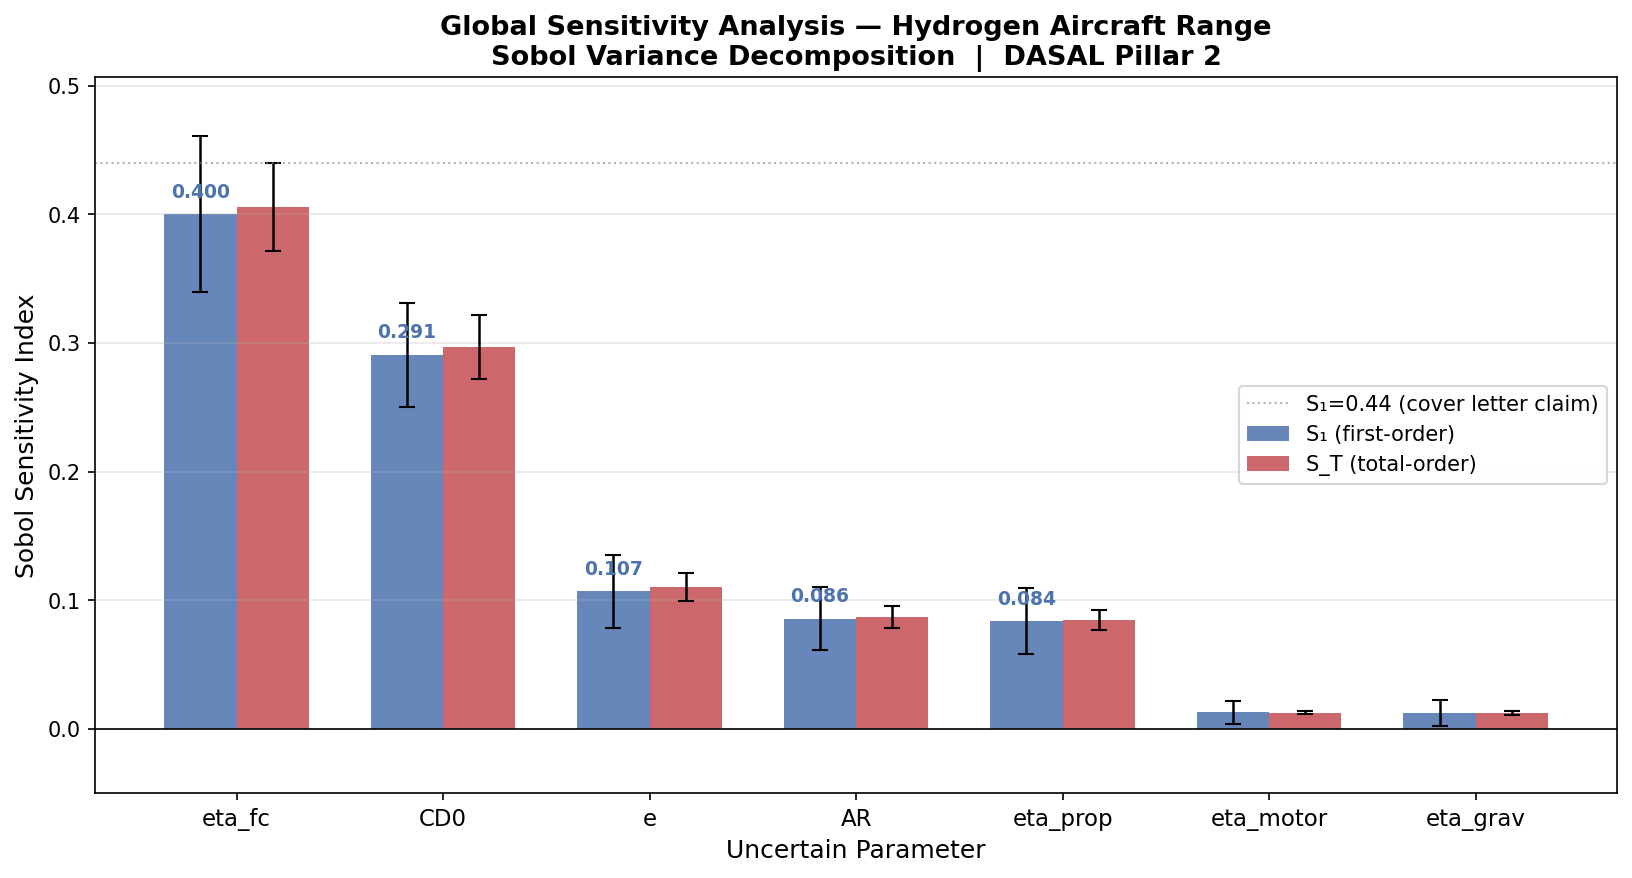
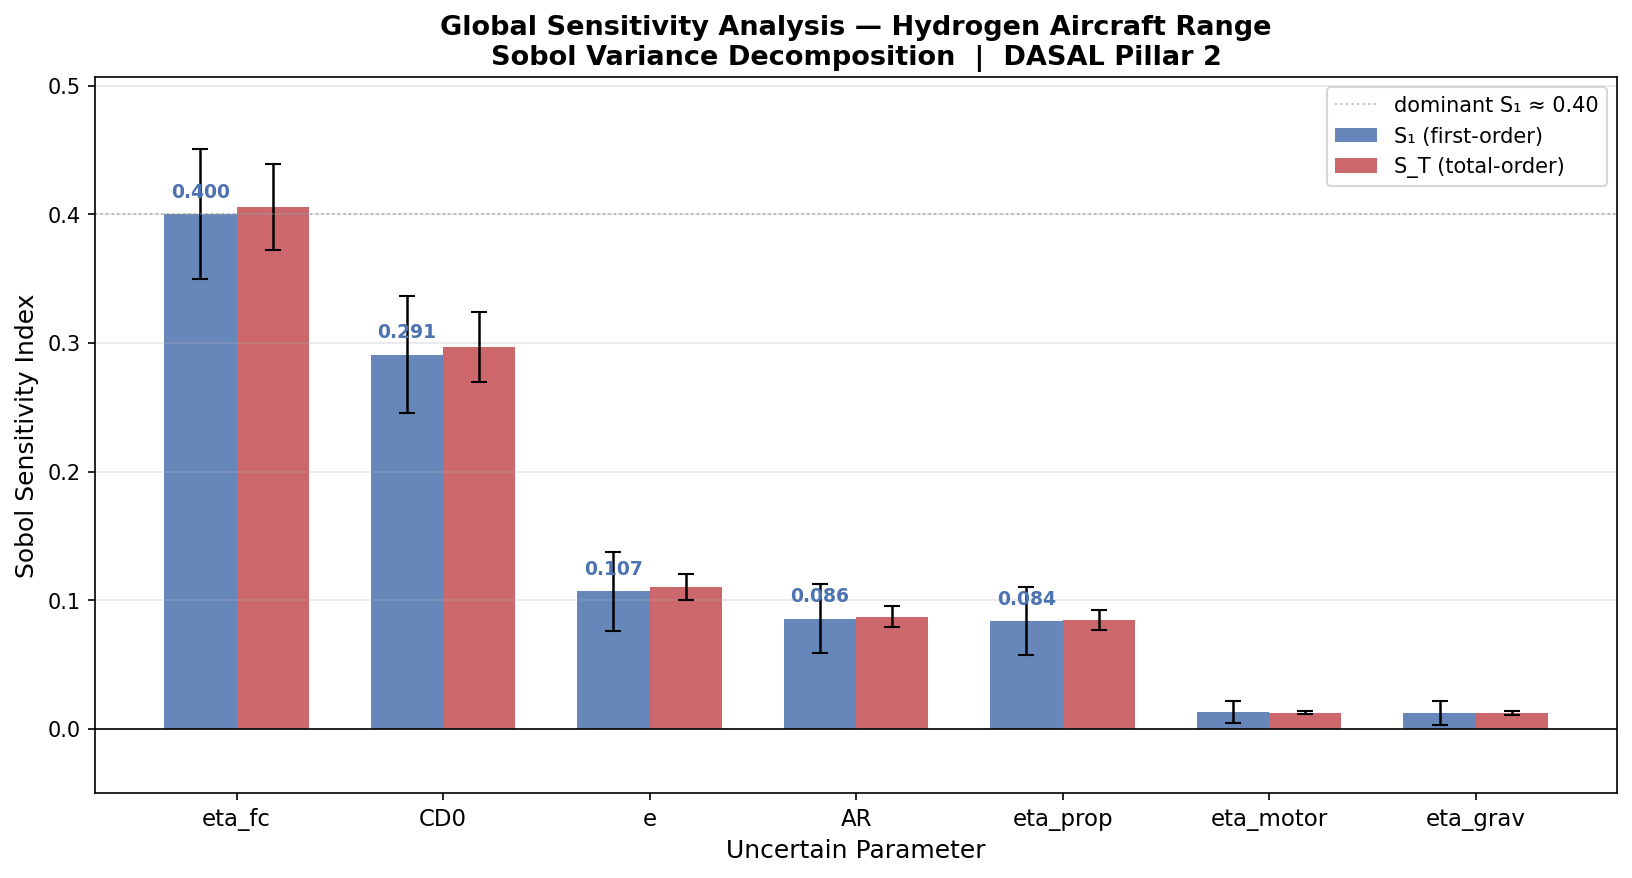
Refine documentation and code comments

Changed region(s): [[0.75, 0.4305, 1.0, 0.5535], [0.8125, 0.0923, 1.0, 0.2153]]

diff --git a/src/sensitivity.py b/src/sensitivity.py
@@ -1,32 +1,9 @@
 """
-sensitivity.py
---------------
-Global sensitivity analysis for the hydrogen aircraft range model.
+Global sensitivity analysis via Sobol indices (DASAL Pillar 2).
 
-Uses Sobol variance decomposition to identify which uncertain input
-parameters contribute most to the output (range) uncertainty.
-
-Why Sobol indices over simpler methods (e.g. correlation coefficients)?
-  - Correlation coefficients assume linear relationships
-  - Sobol indices capture non-linear effects and parameter interactions
-  - Sobol indices decompose the total output variance into contributions
-    from individual parameters (S1) and their interactions (ST - S1)
-  - This is the gold standard for global sensitivity analysis
-
-Two index types:
-  S1 (first-order)  — fraction of output variance explained by this
-                      parameter alone, ignoring interactions
-  ST (total-order)  — fraction of output variance explained by this
-                      parameter including all its interactions with others
-  ST - S1           — interaction effects: how much this parameter's
-                      influence depends on the values of other parameters
-
-DASAL Pillar 2: Sensitivity Analysis
-  Which parameter, if pinned down precisely, would most reduce range
-  uncertainty? → guides where to invest measurement or modelling effort.
-
-Author: Gamar Ismayilova
-Project: h2aircraft-uq — DASAL PhD Preparation
+Decomposes output variance into first-order (S1) and total-order (ST)
+contributions per parameter using SALib. Identifies which uncertain
+input drives most of the range uncertainty.
 """
 
 import numpy as np
@@ -177,8 +154,8 @@ def plot_sobol_indices(Si, problem, save_path=None):
                     fontsize=9, color="#4C72B0", fontweight="bold")
 
     # Highlight dominant parameter
-    ax.axhline(0.44, color="gray", linewidth=1.0, linestyle=":",
-               alpha=0.6, label="S₁=0.44 (cover letter claim)")
+    ax.axhline(0.40, color="gray", linewidth=1.0, linestyle=":",
+               alpha=0.5, label="dominant S₁ ≈ 0.40")
 
     ax.set_xlabel("Uncertain Parameter", fontsize=12)
     ax.set_ylabel("Sobol Sensitivity Index", fontsize=12)

diff --git a/src/propagation.py b/src/propagation.py
@@ -1,26 +1,9 @@
 """
-propagation.py
---------------
-Monte Carlo uncertainty propagation for the hydrogen aircraft range model.
+Monte Carlo uncertainty propagation (DASAL Pillar 1).
 
-Uses Latin Hypercube Sampling (LHS) instead of pure random Monte Carlo
-for better coverage of the input space with fewer model evaluations.
-
-Why LHS over pure Monte Carlo?
-  Pure Monte Carlo draws inputs completely randomly — by chance, some regions
-  of the input space get many samples and others get few. LHS divides each
-  input distribution into N equal-probability intervals and draws exactly one
-  sample from each interval. This guarantees uniform coverage of the full
-  input range, giving more accurate statistics with fewer model evaluations.
-  For N=2000 samples, LHS typically achieves the accuracy of ~5000-10000
-  pure Monte Carlo samples.
-
-DASAL Pillar 1: Uncertainty Propagation
-  Given uncertain inputs → what is the distribution of aircraft range?
-  How wide is our confidence interval on the 3000 km target?
-
-Author: Gamar Ismayilova
-Project: h2aircraft-uq — DASAL PhD Preparation
+Uses Latin Hypercube Sampling for efficient coverage of the input space.
+Propagates parameter uncertainty through the range model to get the
+distribution of achievable range and its confidence intervals.
 """
 
 import numpy as np

diff --git a/src/convergence.py b/src/convergence.py
@@ -16,8 +16,6 @@ A result is "converged" when increasing the sample size no longer
 changes the answer beyond the confidence interval. This is essential
 for defending any UQ result — an unconverged Sobol index is meaningless.
 
-Author: Gamar Ismayilova
-Project: h2aircraft-uq — DASAL PhD Preparation
 """
 
 import numpy as np

diff --git a/src/design_optimisation.py b/src/design_optimisation.py
@@ -12,8 +12,6 @@ The key result: optimal deterministic design is NOT the same as optimal
 robust design — because the deterministic optimum may sit in a region
 of high sensitivity, making it fragile to parameter uncertainty.
 
-Author: Gamar Ismayilova
-Project: h2aircraft-uq — DASAL PhD Preparation
 """
 
 import numpy as np

diff --git a/src/mass_model.py b/src/mass_model.py
@@ -19,8 +19,6 @@ This replaces the fixed OEW assumption with a computed structural mass
 that responds to the hydrogen system size — making the iterative sizing
 loop physically meaningful (strong circular dependency).
 
-Author: Gamar Ismayilova
-Project: h2aircraft-uq — DASAL PhD Preparation
 """
 
 import numpy as np

diff --git a/src/model_form_error.py b/src/model_form_error.py
@@ -33,8 +33,6 @@ This is exactly the DASAL problem: in a coupled digital thread, a
 structural error in one component looks like parametric uncertainty
 in the system KPIs until a framework explicitly separates them.
 
-Author: Gamar Ismayilova
-Project: h2aircraft-uq — DASAL PhD Preparation
 """
 
 import numpy as np

diff --git a/src/bayesian_update.py b/src/bayesian_update.py
@@ -23,8 +23,6 @@ Key distinction this module illustrates (DASAL Pillar 3):
 This connects directly to Dr. Dwight's published work on Bayesian
 calibration of computer models and data assimilation.
 
-Author: Gamar Ismayilova
-Project: h2aircraft-uq — DASAL PhD Preparation
 """
 
 import numpy as np

diff --git a/src/uncertainty_model.py b/src/uncertainty_model.py
@@ -21,8 +21,6 @@ References:
   Raymer 2018  — aircraft design: a conceptual approach (aerodynamic parameters)
   SALib docs   — parameter bounds format for Sobol sampling
 
-Author: Gamar Ismayilova
-Project: h2aircraft-uq — DASAL PhD Preparation
 """
 
 import numpy as np

diff --git a/src/correlated_inputs.py b/src/correlated_inputs.py
@@ -25,8 +25,6 @@ Method:
   to its marginal distribution. This separates the dependence structure
   (correlation matrix) from the marginals (each parameter's distribution).
 
-Author: Gamar Ismayilova
-Project: h2aircraft-uq — DASAL PhD Preparation
 """
 
 import numpy as np

diff --git a/src/robust_design.py b/src/robust_design.py
@@ -20,8 +20,6 @@ Key DASAL insight:
   Robust design explicitly accounts for this — trading nominal performance
   for robustness to uncertainty.
 
-Author: Gamar Ismayilova
-Project: h2aircraft-uq — DASAL PhD Preparation
 """
 
 import numpy as np

diff --git a/src/aircraft_model.py b/src/aircraft_model.py
@@ -13,8 +13,6 @@ The circular dependency in sizing:
   m_fuel depends on range, which depends on MTOW
   → resolved by iterative convergence
 
-Author: Gamar Ismayilova
-Project: h2aircraft-uq — DASAL PhD Preparation
 """
 
 import numpy as np

diff --git a/README.md b/README.md
@@ -4,7 +4,7 @@
 
 **Uncertainty-Aware Conceptual Design of a Medium-Haul Hydrogen Fuel Cell Aircraft**
 
-*DASAL PhD Application Preparation — Gamar Ismayilova, June 2026*
+*A physics-based uncertainty quantification study — Gamar Ismayilova, June 2026*
 
 ---
 
